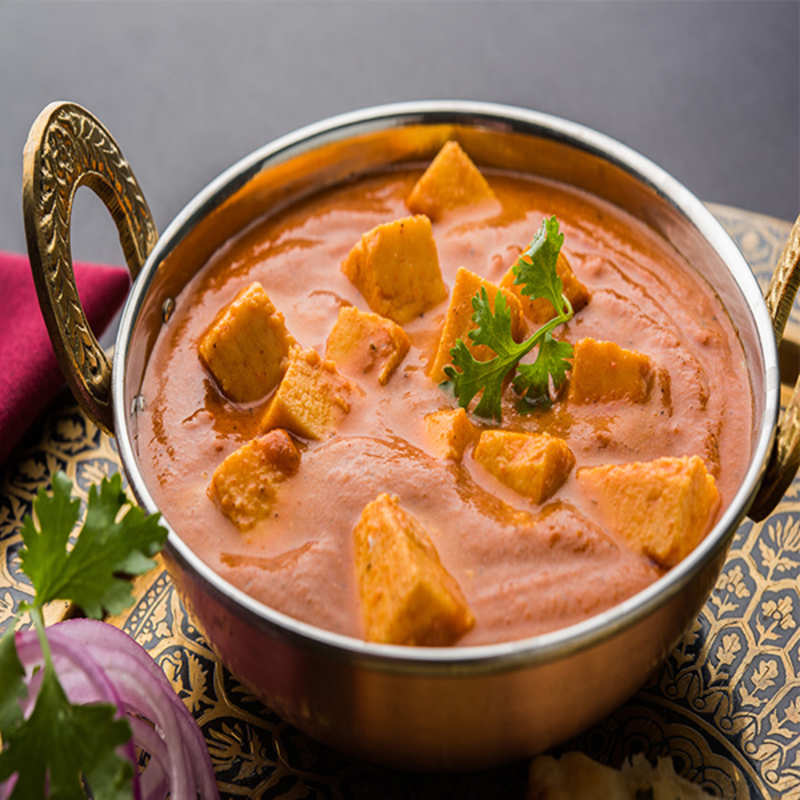
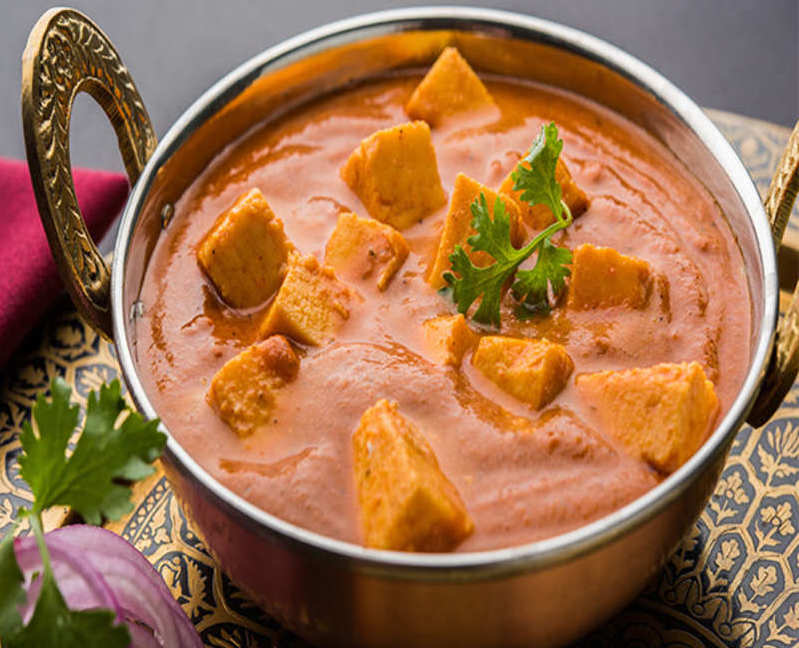
images updated

diff --git a/recipe.md b/recipe.md
@@ -7,13 +7,13 @@ You will have to do some prep work before you begin making this delicious recipe
 
 1. Soak 18 to 20 cashews in ⅓ cup hot water for 20 to 30 minutes.
 2. When the cashews are soaking, you can prep the other ingredients like chopping tomatoes, chopping and preparing the ginger-garlic paste, slicing paneer etc.
-3. Crush 1-inch ginger + 3 to 4 medium-sized garlic to a paste in a mortar pestle to a semi-fine or fine paste. Keep aside. Don’t add any water while crushing ginger & garlic.
+3. Crush 1-inch ginger + 3 to 4 medium-sized garlic to a paste in a mortar pestle to a semi-fine or fine paste. Keep aside. Don’t add any water while crushing ginger & garlic. ![Paner Butter Masala](images/pbm-2.jpg)
 4. After 20 to 30 minutes, drain the water and add the soaked cashews in a blender or mixer-grinder. Also, add 2 to 3 tablespoons fresh water or as required.
 5. Next add 2 to 3 tablespoons of low-fat cream or 1 to 2 tablespoons of heavy whipping cream.
 6. Stir gently but well and switch off the heat.
 7. Serve Paneer Butter Masala hot garnished with 1 to 2 tablespoons of chopped coriander leaves (cilantro) and the remaining ginger julienne. You can also drizzle some cream or dot with butter while serving.
 
-(images/pbm-2.jpg)
+
 
 
 [Back](README.md)
